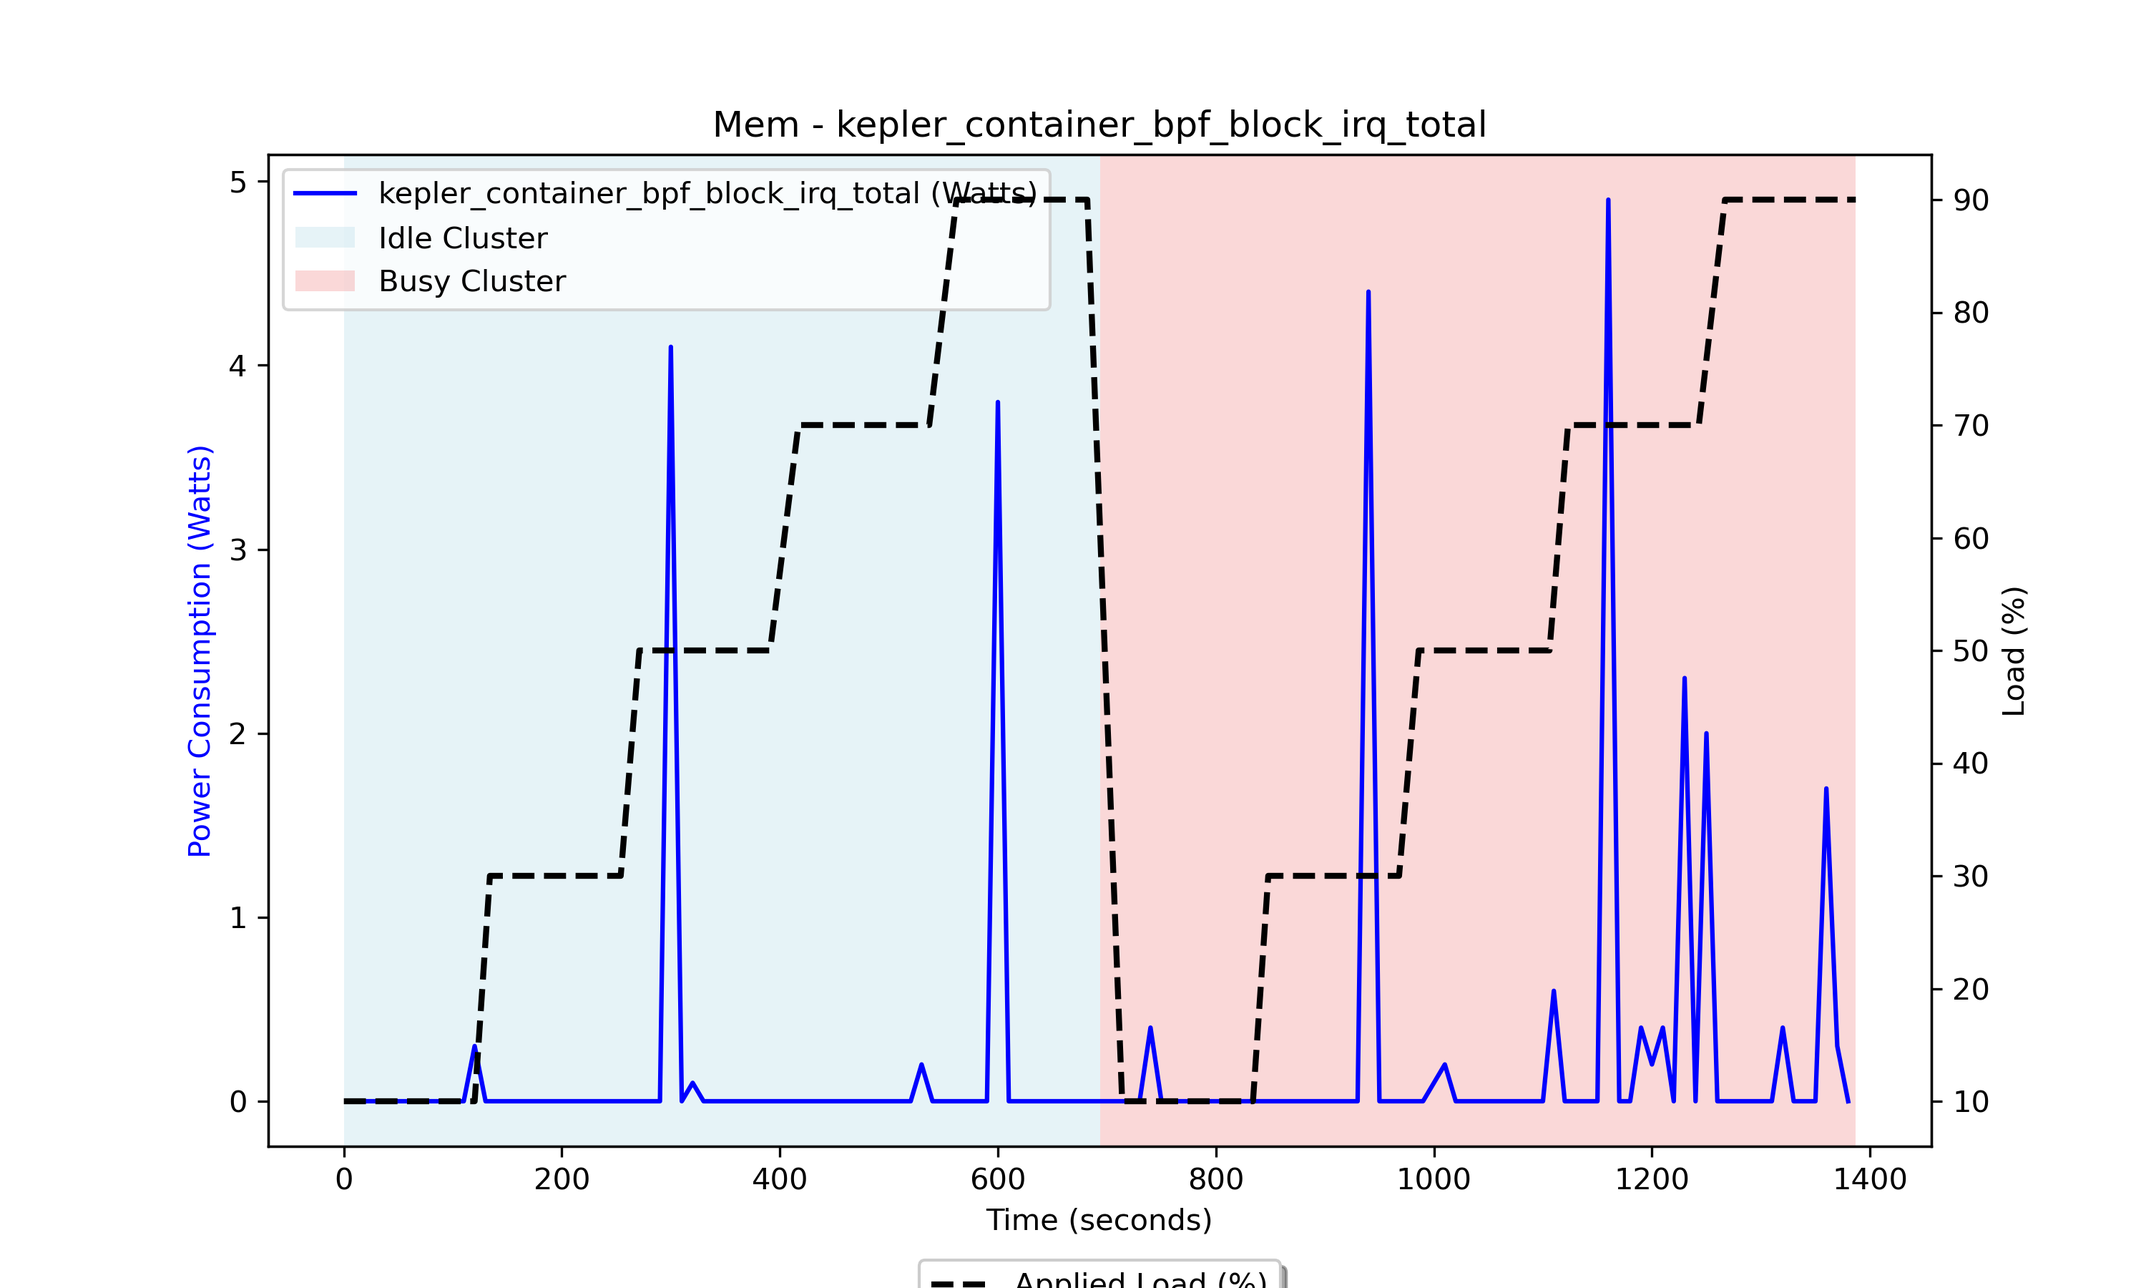
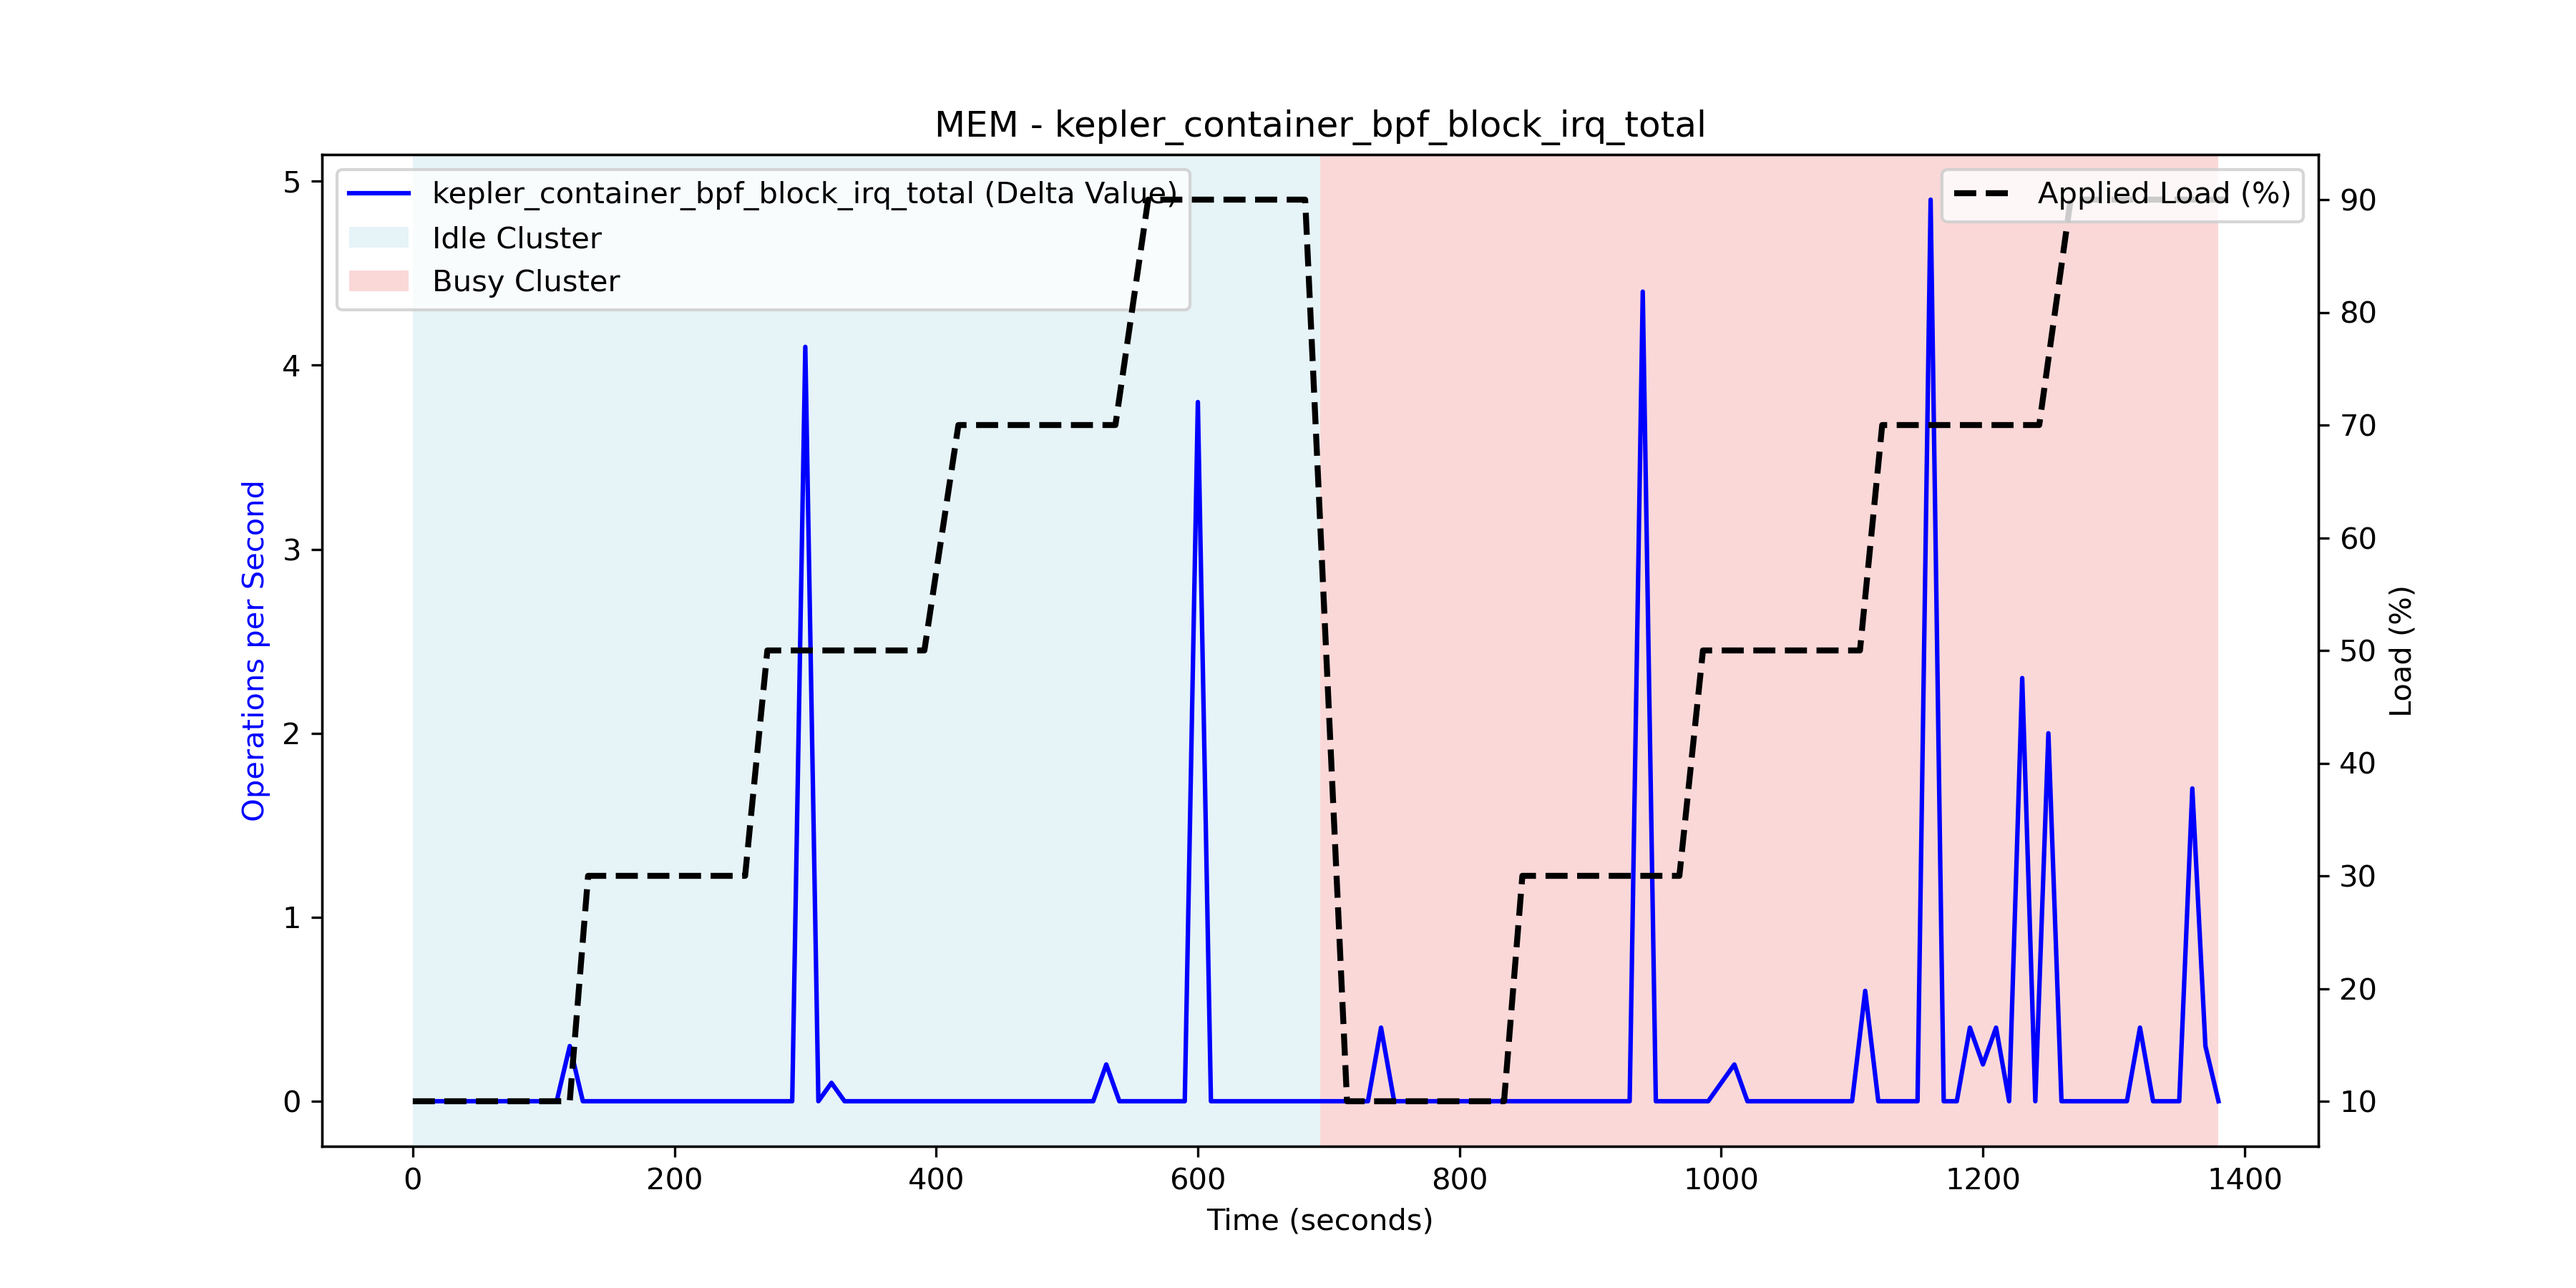
Look at these beautiful graphs

diff --git a/data-analysis/analysis-scripts/create-diagrams.py b/data-analysis/analysis-scripts/create-diagrams.py
@@ -9,16 +9,17 @@ DATA_DIR = os.path.join(os.path.dirname(os.path.abspath(__file__)), "data")
 ANALYSIS_DIR = os.path.join(os.path.dirname(os.path.abspath(__file__)), "data_analysis", "diagrams")
 os.makedirs(ANALYSIS_DIR, exist_ok=True)
 
-# KEPLER metrics to analyze
-METRICS = [
-    # Kepler Metrics for Container Energy Consumption
+# Joule-based KEPLER Metrics (to be converted to Watts)
+JOULE_METRICS = {
     "kepler_container_joules_total",
     "kepler_container_core_joules_total",
     "kepler_container_dram_joules_total",
     "kepler_container_package_joules_total",
     "kepler_container_other_joules_total",
-    
-    # Kepler Metrics for Container Resource Utilization
+}
+
+# KEPLER metrics to analyze (includes both Joules-based and raw metrics)
+METRICS = list(JOULE_METRICS) + [
     "kepler_container_cpu_cycles_total",
     "kepler_container_cpu_instructions_total",
     "kepler_container_cache_miss_total",
@@ -38,19 +39,19 @@ def find_latest_log(experiment_type):
     )
     return os.path.join(DATA_DIR, log_files[0]) if log_files else None
 
-# Extract load phases from the log file
+# Extract load phases and test pod from the log file
 def parse_log(log_file):
     test_phases = []
-    test_pod = None  # Store the specific test pod being stressed
+    test_pod = None
 
     with open(log_file, "r") as f:
         for line in f:
-            # Detect the container under test
-            pod_match = re.search(r"Selected pod ([A-Za-z0-9]+(-[A-Za-z0-9]+)+) on node", line)
+            # Identify the pod under test
+            pod_match = re.search(r"Selected pod ([A-Za-z0-9]+(?:-[A-Za-z0-9]+)+) on node", line)
             if pod_match:
                 test_pod = pod_match.group(1)
 
-            # Match test start times, load, and duration
+            # Extract stress test details
             match = re.match(r"(\d{4}-\d{2}-\d{2} \d{2}:\d{2}:\d{2}),(Starting stress-ng at (\d+)% .+? for (\d+) seconds on pod .+?),(idle_cluster|busy_cluster)", line)
             if match:
                 start_time = datetime.strptime(match.group(1), "%Y-%m-%d %H:%M:%S")
@@ -67,7 +68,7 @@ def parse_log(log_file):
 
     return test_phases, test_pod
 
-# Load KEPLER data from CSV and filter to relevant pod
+# Load KEPLER data from CSV and filter relevant pod
 def load_kepler_data(experiment_type, metric, test_pod):
     file_path = os.path.join(DATA_DIR, experiment_type, metric, f"{metric}_full_experiment.csv")
     if not os.path.exists(file_path):
@@ -77,41 +78,40 @@ def load_kepler_data(experiment_type, metric, test_pod):
     df = pd.read_csv(file_path, parse_dates=["timestamp"])
     df["timestamp"] = pd.to_datetime(df["timestamp"])
 
-    # Filter only the pod under test
+    # Filter for the relevant test pod
     df = df[df["pod"] == test_pod]
 
-    # Convert Joules to Watts (Δ Joules / Δ Time)
-    df["power_watts"] = df["value"].diff() / df["timestamp"].diff().dt.total_seconds()
-
+    # Convert Joules to Watts or calculate operations per second
+    if metric in JOULE_METRICS:
+        df["value_converted"] = df["value"].diff() / df["timestamp"].diff().dt.total_seconds()
+    else:
+        df["value_converted"] = df["value"].diff() / df["timestamp"].diff().dt.total_seconds()  # Convert to operations per second
+    df["value_converted"] = df["value_converted"].clip(lower=0)  # Ensure no negative values
     return df
 
 # Generate a time-series plot
-def generate_plot(experiment_type, metric, test_phases, kepler_data):
-    plt.figure(figsize=(10, 6))
+def generate_plot(experiment_type, metric, test_phases, kepler_data, is_joule_based):
+    plt.figure(figsize=(12, 6))
 
     # Adjust time to start from zero
     first_test_time = test_phases[0]["start"]
+    kepler_data["time_seconds"] = (kepler_data["timestamp"].dt.tz_localize(None) - first_test_time).dt.total_seconds()
 
-    # Create the primary axis (KEPLER energy data)
+    # Create primary axis (KEPLER data)
     ax1 = plt.gca()
-
-    # Plot KEPLER energy data (Watts) on the PRIMARY Y-Axis
     ax1.plot(
-        (kepler_data["timestamp"].dt.tz_localize(None) - first_test_time).dt.total_seconds(),
-        kepler_data["power_watts"],
-        label=f"{metric} (Watts)",
+        kepler_data["time_seconds"],
+        kepler_data["value_converted"],
+        label=f"{metric} ({'Watts' if is_joule_based else 'Delta Value'})",
         color="blue"
     )
 
-    # **Primary Y-Axis Label (KEPLER Power Consumption)**
-    ax1.set_ylabel("Power Consumption (Watts)", color="blue")
+    # Primary Y-Axis label
+    ax1.set_ylabel("Power Consumption (Watts)" if is_joule_based else "Operations per Second", color="blue")
 
-    # Create secondary y-axis for the workload
+    # Create secondary y-axis for workload profile
     ax2 = ax1.twinx()
-
-    # Plot the workload profile
-    time_points = []
-    load_points = []
+    time_points, load_points = [], []
 
     for phase in test_phases:
         time_points.append((phase["start"] - first_test_time).total_seconds())
@@ -122,28 +122,24 @@ def generate_plot(experiment_type, metric, test_phases, kepler_data):
 
     ax2.plot(time_points, load_points, color="black", linestyle="--", label="Applied Load (%)", linewidth=2)
 
-
-    # Determine transition time automatically
+    # Compute transition time
     experiment_start = test_phases[0]["start"]
     experiment_end = test_phases[-1]["end"]
-    transition_time = experiment_start + (experiment_end - experiment_start) / 2
-    transition_time_seconds = (transition_time - first_test_time).total_seconds()
+    transition_time_seconds = (experiment_start + (experiment_end - experiment_start) / 2 - first_test_time).total_seconds()
 
-    # Add Background Shading for Idle and Busy Cluster Phases
+    # Add shading to indicate idle vs busy cluster
     ax1.axvspan(0, transition_time_seconds, facecolor="lightblue", alpha=0.3, label="Idle Cluster")
-    ax1.axvspan(transition_time_seconds, (experiment_end - first_test_time).total_seconds(), 
-                facecolor="lightcoral", alpha=0.3, label="Busy Cluster")
+    ax1.axvspan(transition_time_seconds, kepler_data["time_seconds"].max(), facecolor="lightcoral", alpha=0.3, label="Busy Cluster")
 
     # Labels and formatting
     ax1.set_xlabel("Time (seconds)")
-    
     ax2.set_ylabel("Load (%)", color="black")
 
     # Legends
     ax1.legend(loc="upper left")
     ax2.legend(loc="upper right")
 
-    plt.title(f"{experiment_type.capitalize()} - {metric}")
+    plt.title(f"{experiment_type.upper()} - {metric}")
 
     # Save figure
     output_dir = os.path.join(ANALYSIS_DIR, experiment_type, metric)
@@ -153,7 +149,6 @@ def generate_plot(experiment_type, metric, test_phases, kepler_data):
     plt.savefig(output_path, dpi=300)
     plt.close()
     print(f"Saved plot: {output_path}")
-
 
 # Main function
 def main():
@@ -167,13 +162,20 @@ def main():
         test_phases, test_pod = parse_log(log_file)
 
         for metric in METRICS:
+            print(f"Processing metric: {metric}")
+
+            # Load the relevant KEPLER data
             kepler_data = load_kepler_data(experiment_type, metric, test_pod)
-            
+
             if kepler_data is None or kepler_data.empty:
                 print(f"Warning: No data available for {metric}. Skipping...")
                 continue
 
-            generate_plot(experiment_type, metric, test_phases, kepler_data)
+            # Determine if the metric is a Joule-based metric
+            is_joule_based = metric in JOULE_METRICS
+
+            # Generate plot with correct axis labeling
+            generate_plot(experiment_type, metric, test_phases, kepler_data, is_joule_based)
 
 if __name__ == "__main__":
     main()

diff --git a/data-analysis/analysis-scripts/create-diagrams copy.py b/data-analysis/analysis-scripts/create-diagrams copy.py
@@ -11,7 +11,20 @@ os.makedirs(ANALYSIS_DIR, exist_ok=True)
 
 # KEPLER metrics to analyze
 METRICS = [
-    "kepler_container_package_joules_total"
+    # Kepler Metrics for Container Energy Consumption
+    "kepler_container_joules_total",
+    "kepler_container_core_joules_total",
+    "kepler_container_dram_joules_total",
+    "kepler_container_package_joules_total",
+    "kepler_container_other_joules_total",
+    
+    # Kepler Metrics for Container Resource Utilization
+    "kepler_container_cpu_cycles_total",
+    "kepler_container_cpu_instructions_total",
+    "kepler_container_cache_miss_total",
+    "kepler_container_bpf_net_tx_irq_total",
+    "kepler_container_bpf_net_rx_irq_total",
+    "kepler_container_bpf_block_irq_total",
 ]
 
 EXPERIMENT_TYPES = ["cpu", "mem"]
@@ -25,17 +38,17 @@ def find_latest_log(experiment_type):
     )
     return os.path.join(DATA_DIR, log_files[0]) if log_files else None
 
-# Extract load phases and container under test from log file
+# Extract load phases from the log file
 def parse_log(log_file):
     test_phases = []
-    container_under_test = None
+    test_pod = None  # Store the specific test pod being stressed
 
     with open(log_file, "r") as f:
         for line in f:
             # Detect the container under test
             pod_match = re.search(r"Selected pod ([A-Za-z0-9]+(-[A-Za-z0-9]+)+) on node", line)
             if pod_match:
-                container_under_test = pod_match.group(1)
+                test_pod = pod_match.group(1)
 
             # Match test start times, load, and duration
             match = re.match(r"(\d{4}-\d{2}-\d{2} \d{2}:\d{2}:\d{2}),(Starting stress-ng at (\d+)% .+? for (\d+) seconds on pod .+?),(idle_cluster|busy_cluster)", line)
@@ -52,22 +65,22 @@ def parse_log(log_file):
                     "phase": phase
                 })
 
-    return test_phases, container_under_test
+    return test_phases, test_pod
 
-# Load KEPLER data from CSV and filter by container under test
-def load_kepler_data(experiment_type, metric, container_under_test):
+# Load KEPLER data from CSV and filter to relevant pod
+def load_kepler_data(experiment_type, metric, test_pod):
     file_path = os.path.join(DATA_DIR, experiment_type, metric, f"{metric}_full_experiment.csv")
     if not os.path.exists(file_path):
         print(f"Warning: Missing KEPLER data file: {file_path}")
         return None
 
     df = pd.read_csv(file_path, parse_dates=["timestamp"])
-    df["timestamp"] = pd.to_datetime(df["timestamp"])  # Assume timestamps are consistent
+    df["timestamp"] = pd.to_datetime(df["timestamp"])
 
-    # Filter for only the container under test
-    df = df[df["pod"] == container_under_test]
+    # Filter only the pod under test
+    df = df[df["pod"] == test_pod]
 
-    # Convert Joules to Watts using time differences
+    # Convert Joules to Watts (Δ Joules / Δ Time)
     df["power_watts"] = df["value"].diff() / df["timestamp"].diff().dt.total_seconds()
 
     return df
@@ -78,47 +91,69 @@ def generate_plot(experiment_type, metric, test_phases, kepler_data):
 
     # Adjust time to start from zero
     first_test_time = test_phases[0]["start"]
-    
-    # Plot the test load curve
+
+    # Create the primary axis (KEPLER energy data)
+    ax1 = plt.gca()
+
+    # Plot KEPLER energy data (Watts) on the PRIMARY Y-Axis
+    ax1.plot(
+        (kepler_data["timestamp"].dt.tz_localize(None) - first_test_time).dt.total_seconds(),
+        kepler_data["power_watts"],
+        label=f"{metric} (Watts)",
+        color="blue"
+    )
+
+    # **Primary Y-Axis Label (KEPLER Power Consumption)**
+    ax1.set_ylabel("Power Consumption (Watts)", color="blue")
+
+    # Create secondary y-axis for the workload
+    ax2 = ax1.twinx()
+
+    # Plot the workload profile
     time_points = []
     load_points = []
-    
+
     for phase in test_phases:
         time_points.append((phase["start"] - first_test_time).total_seconds())
         load_points.append(phase["load"])
-        
+
         time_points.append((phase["end"] - first_test_time).total_seconds())
         load_points.append(phase["load"])
 
-    plt.plot(time_points, load_points, color="black", linestyle="--", label="Applied Load (%)", linewidth=2)
+    ax2.plot(time_points, load_points, color="black", linestyle="--", label="Applied Load (%)", linewidth=2)
 
-    # Plot KEPLER energy data (converted to Watts)
-    if kepler_data is not None:
-        plt.plot(
-            (kepler_data["timestamp"].dt.tz_localize(None) - first_test_time).dt.total_seconds(),
-            kepler_data["power_watts"],
-            label=f"{metric} (Watts)",
-            color="blue"
-        )
+
+    # Determine transition time automatically
+    experiment_start = test_phases[0]["start"]
+    experiment_end = test_phases[-1]["end"]
+    transition_time = experiment_start + (experiment_end - experiment_start) / 2
+    transition_time_seconds = (transition_time - first_test_time).total_seconds()
+
+    # Add Background Shading for Idle and Busy Cluster Phases
+    ax1.axvspan(0, transition_time_seconds, facecolor="lightblue", alpha=0.3, label="Idle Cluster")
+    ax1.axvspan(transition_time_seconds, (experiment_end - first_test_time).total_seconds(), 
+                facecolor="lightcoral", alpha=0.3, label="Busy Cluster")
 
     # Labels and formatting
-    plt.xlabel("Time (seconds)")
-    plt.ylabel("Load (%)", color="black")
-    plt.legend(loc="upper left")
-    plt.title(f"{experiment_type.capitalize()} - {metric}")
+    ax1.set_xlabel("Time (seconds)")
     
+    ax2.set_ylabel("Load (%)", color="black")
 
-    ax2 = plt.gca().twinx()
-    ax2.set_ylabel("Power Consumption (Watts)", color="black")
+    # Legends
+    ax1.legend(loc="upper left")
+    ax2.legend(loc="upper right")
+
+    plt.title(f"{experiment_type.upper()} - {metric}")
 
     # Save figure
     output_dir = os.path.join(ANALYSIS_DIR, experiment_type, metric)
     os.makedirs(output_dir, exist_ok=True)
     output_path = os.path.join(output_dir, f"{experiment_type}_{metric}.png")
-    
+
     plt.savefig(output_path, dpi=300)
     plt.close()
     print(f"Saved plot: {output_path}")
+
 
 # Main function
 def main():
@@ -129,16 +164,12 @@ def main():
             continue
 
         print(f"Processing log file: {log_file}")
-        test_phases, container_under_test = parse_log(log_file)
-
-        if not container_under_test:
-            print(f"Error: Could not determine the container under test for {experiment_type}. Skipping...")
-            continue
+        test_phases, test_pod = parse_log(log_file)
 
         for metric in METRICS:
-            kepler_data = load_kepler_data(experiment_type, metric, container_under_test)
+            kepler_data = load_kepler_data(experiment_type, metric, test_pod)
             
-            if kepler_data is None:
+            if kepler_data is None or kepler_data.empty:
                 print(f"Warning: No data available for {metric}. Skipping...")
                 continue
 
